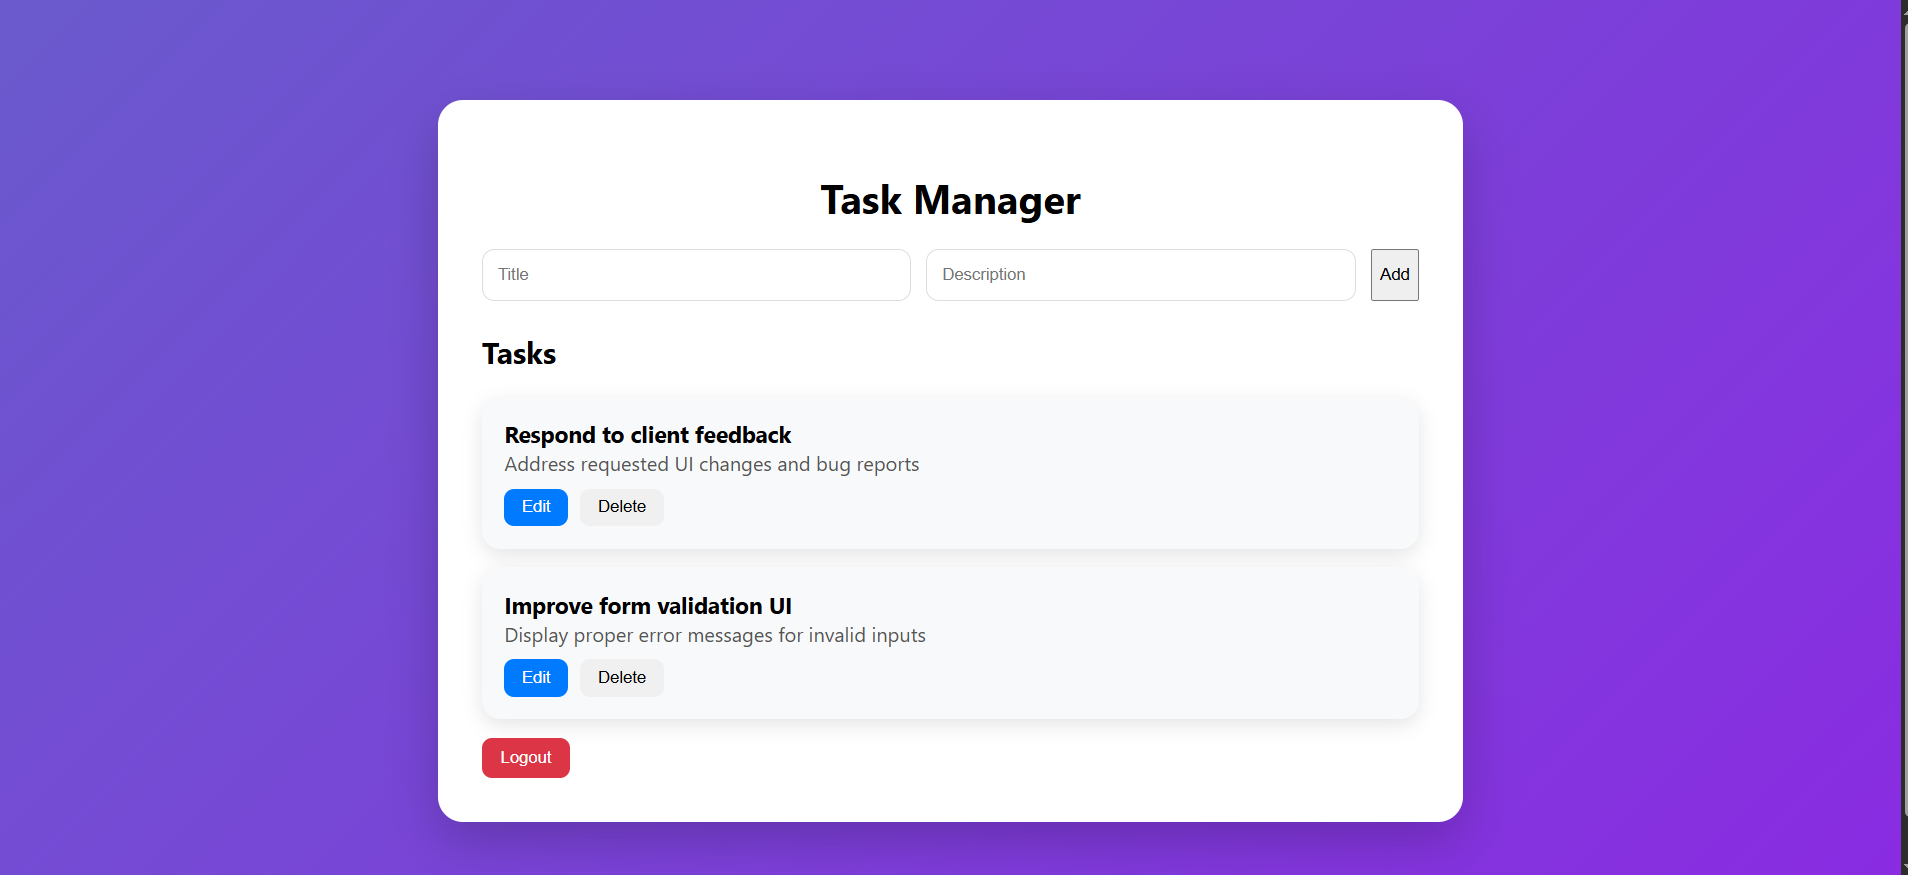
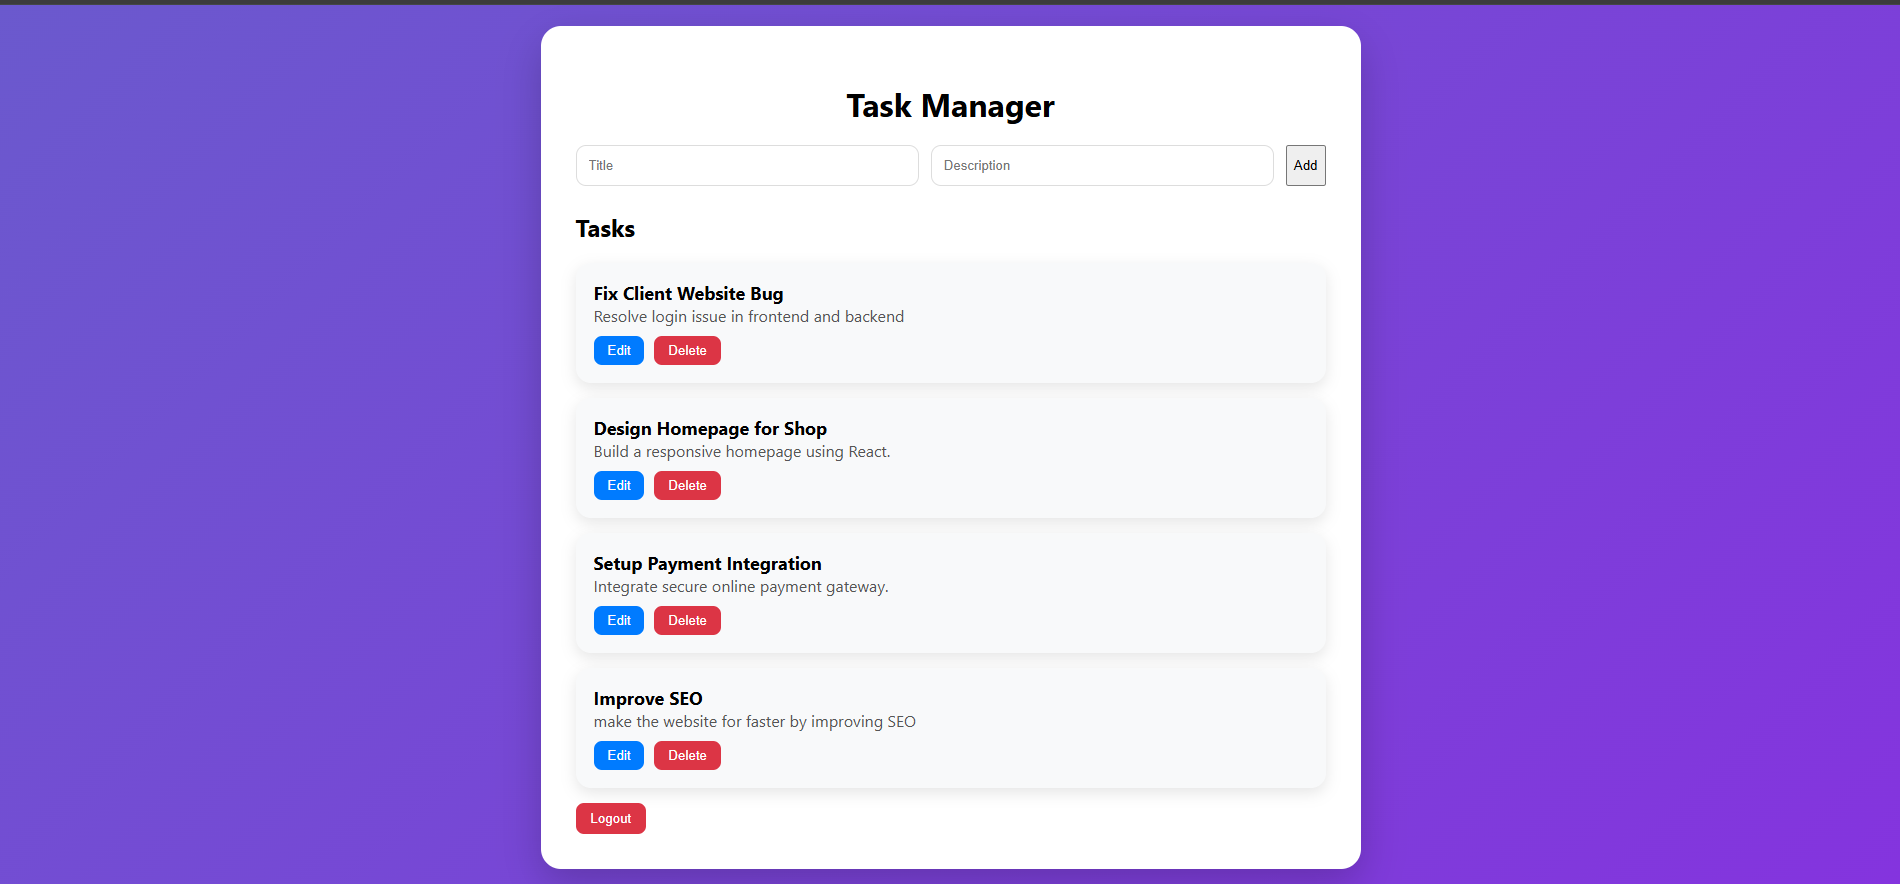
edited readme

Changed region(s): [[0.0, 0.0, 1.0, 1.0], [0.4347, 0.1851, 0.59, 0.2469], [0.4968, 0.3086, 0.5279, 0.3394]]

diff --git a/README.md b/README.md
@@ -11,7 +11,7 @@ The AI feature is designed to respond **only to task-related queries**, making i
 This project demonstrates full-stack development along with real-world AI API integration.
 
 <img width="1908" height="875" alt="task_manager" src="https://github.com/user-attachments/assets/19d4fa12-8999-4ba8-b4d5-14379693868c" />
-/>
+
 
 ---
 